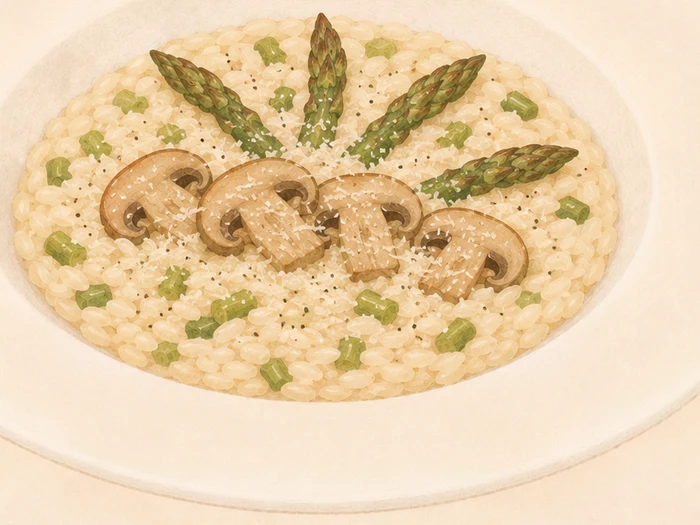
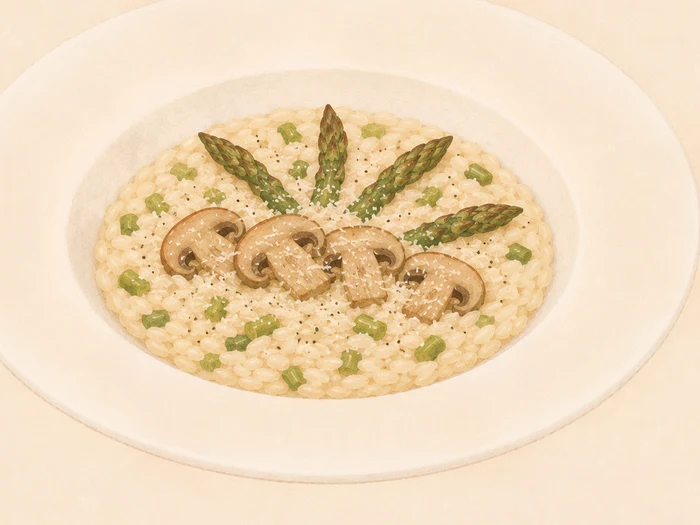
義式重切：對齊阿馬特里恰納的「構圖」而不是「大小」；新增 r19–r21 三張圖
上一版（06d3df2）把四張義式照食物寬度放大到 83%，結果盤子左右被削平，
使用者：「你切的爆醜」。而且方向本來就錯了 —— 食物大小從來就沒有不一致。

真正的差別是**垂直位置**：

                食物上方   食物下方   食物高
  阿馬特里恰納       20%      8%     72%
  米蘭燉飯           6%     23%     72%
  蘆筍菌菇燉飯        3%      2%     95%
  鮮蝦蘆筍           3%      2%     95%
  蒜香橄欖油          3%      3%     94%

阿馬特里恰納好看，是因為食物上方留了 20% —— 盤子的後緣和內圈那道凹陷完整
露出來。其他四張全部頂到天花板，那圈被切掉，盤子就不像盤子了。

改成直接複製它的構圖參數：食物高度佔畫面 72%、上緣落在 20%。三張精準對上。

⚠ 這次繞遠路的原因記著：我量了「食物高度／面積／寬度」三種大小，一次都沒量
位置，而切圖函式裡「照食物置中」是第一版就寫死的、四輪沒被質疑。定基準的時候
要先把基準量成數字 —— 「以某張為準」不能停在感覺。

另：補上 r19 慢火厚煎蔬菜蛋餅、r20 蔥油餅、r21 栗子飯 三張新圖。

diff --git a/index.html b/index.html
@@ -774,8 +774,8 @@ ol.steps li::before {
 </div>
 
 <!-- 改完 recipes.js 就把 v 往上加一號，不然瀏覽器會一直吃舊的快取 -->
-<script src="strings.js?v=12"></script>
-<script src="recipes.js?v=90"></script>
+<script src="strings.js?v=15"></script>
+<script src="recipes.js?v=92"></script>
 <script>
 /* ══════════════════════════════════════════════
    慢寶 · 骨架
@@ -783,7 +783,7 @@ ol.steps li::before {
    ══════════════════════════════════════════════ */
 
 /* 素材版本。換過圖就 bump 一次，否則瀏覽器會一直用舊的快取 */
-const ASSETS = '60';
+const ASSETS = '61';
 const asset = p => p + '?v=' + ASSETS;
 
 const $ = (s, el = document) => el.querySelector(s);
